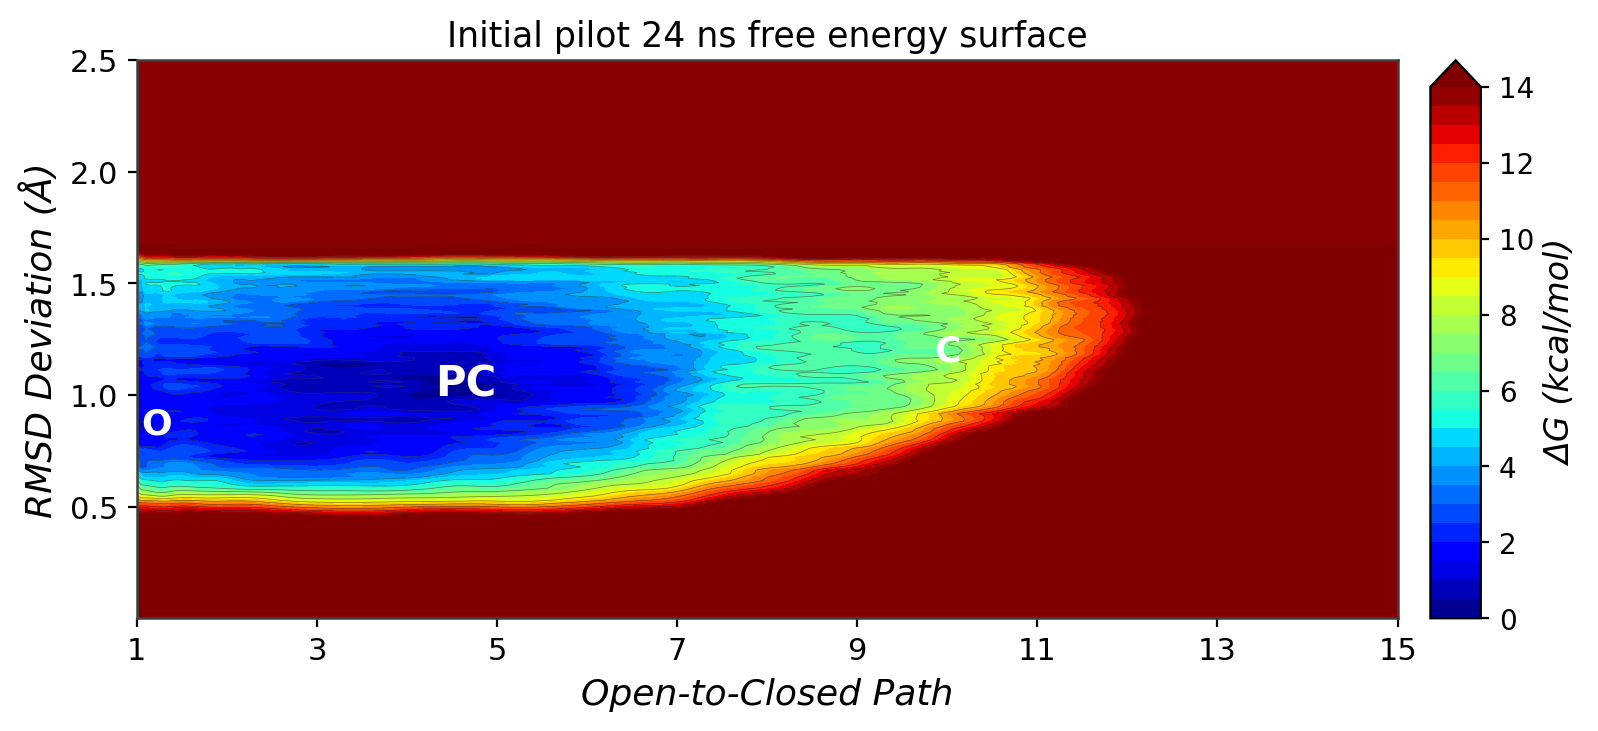
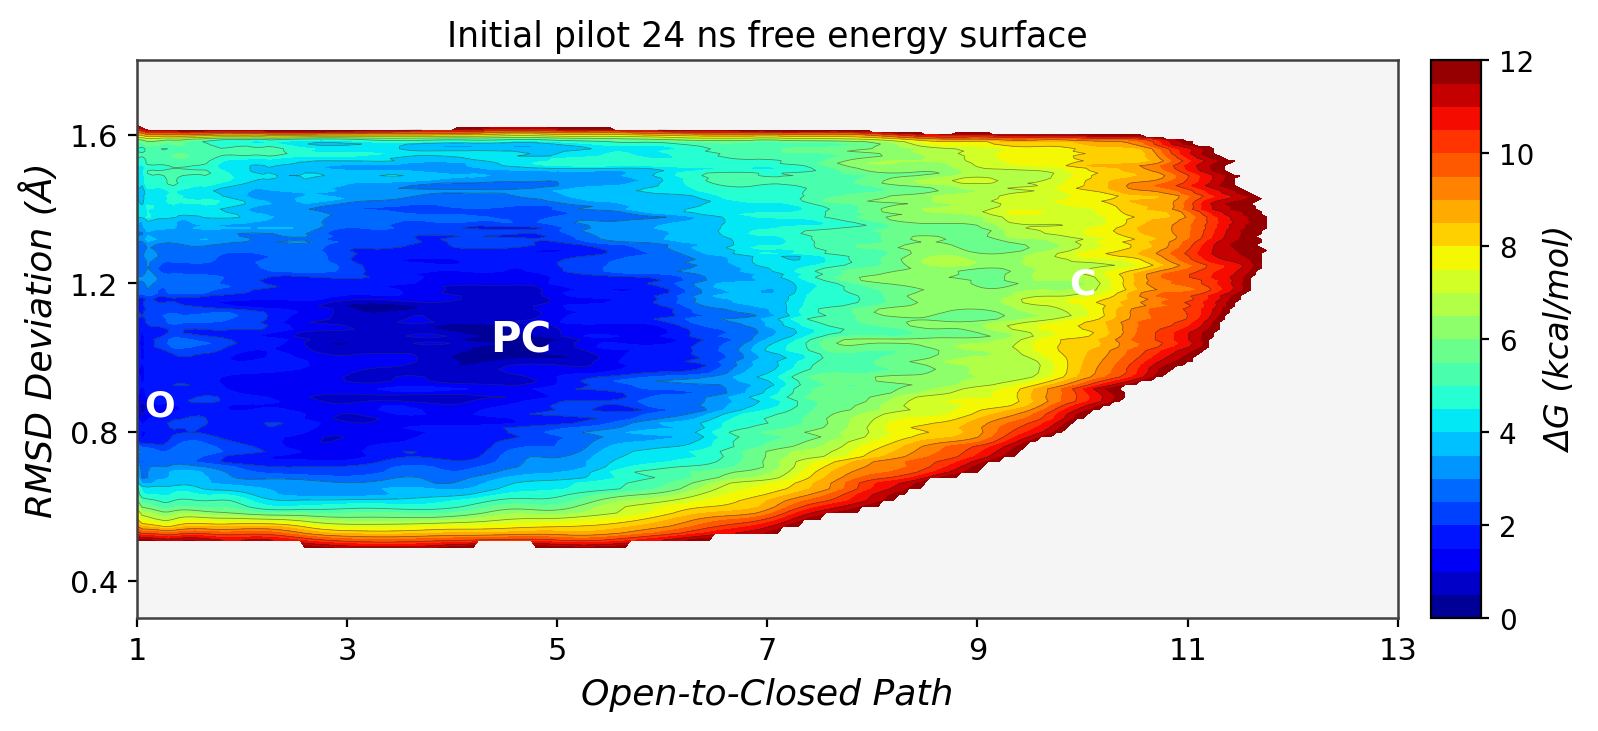
W8 .docx: trim FES red flooding (mask high-ΔG, crop to explored band s=1-13, z=0.3-1.8)

diff --git a/reports/figures/codex_renders/plot_initial_pilot_latest_fes.py b/reports/figures/codex_renders/plot_initial_pilot_latest_fes.py
@@ -18,7 +18,8 @@ FES = ROOT / "raw_data" / "fes_initial_seqaligned_sumhills.dat"
 OUT_PNG = ROOT / "initial_pilot_latest_fes.png"
 OUT_PDF = ROOT / "initial_pilot_latest_fes.pdf"
 
-FES_MAX = 14.0
+FES_MAX = 12.0
+MASK_ABOVE = 12.0
 
 
 def read_surface(path: Path) -> tuple[np.ndarray, np.ndarray, np.ndarray]:
@@ -92,31 +93,33 @@ def main() -> None:
     ax = fig.add_subplot(gs[0, 0])
     cax = fig.add_subplot(gs[0, 1])
 
-    cmap = plt.get_cmap("jet")
-    levels = np.linspace(0.0, FES_MAX, 29)
+    cmap = plt.get_cmap("jet").copy()
+    cmap.set_bad((0.96, 0.96, 0.96, 1.0))
+    shown = np.ma.masked_where(free > MASK_ABOVE, free)
+    levels = np.linspace(0.0, FES_MAX, 25)
     cf = ax.contourf(
         s_grid,
         z_grid,
-        free,
+        shown,
         levels=levels,
         cmap=cmap,
-        extend="max",
+        extend="neither",
     )
     ax.contour(
         s_grid,
         z_grid,
-        free,
+        shown,
         levels=np.arange(1.0, FES_MAX, 1.0),
         colors="0.18",
         linewidths=0.26,
         alpha=0.58,
     )
-    ax.set_facecolor(cmap(0.99))
+    ax.set_facecolor((0.96, 0.96, 0.96))
 
-    ax.set_xlim(1.0, 15.0)
-    ax.set_ylim(0.0, 2.5)
-    ax.set_xticks([1, 3, 5, 7, 9, 11, 13, 15])
-    ax.set_yticks([0.5, 1.0, 1.5, 2.0, 2.5])
+    ax.set_xlim(1.0, 13.0)
+    ax.set_ylim(0.3, 1.8)
+    ax.set_xticks([1, 3, 5, 7, 9, 11, 13])
+    ax.set_yticks([0.4, 0.8, 1.2, 1.6])
     ax.set_xlabel("Open-to-Closed Path", fontstyle="italic")
     ax.set_ylabel("RMSD Deviation (Å)", fontstyle="italic")
     ax.set_title("Initial pilot 24 ns free energy surface", pad=5)